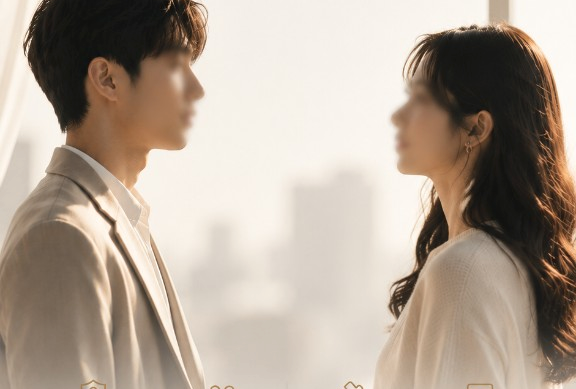
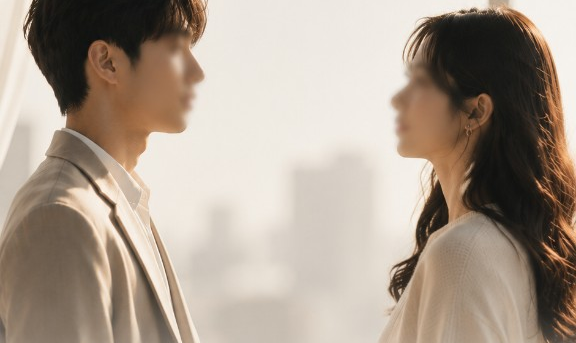
fix: Landing 人像露出完整頭部
重裁素材並放寬上方 mask、加高容器與 object-position，避免臉部被切掉。

diff --git a/src/screens/LandingScreen.tsx b/src/screens/LandingScreen.tsx
@@ -14,9 +14,9 @@ const GOLD_LIGHT = '#C4A574'
 const PAGE_BG = '#faf7f2'
 const LANDING_COUPLE_BG = '/assets/landing-couple-bg.png'
 
-/** 上下羽化，避免出現「貼圖小框」 */
+/** 上下羽化：頂部保留臉部，只柔化邊緣 */
 const PHOTO_MASK =
-  'linear-gradient(to bottom, transparent 0%, rgba(0,0,0,0.35) 8%, black 22%, black 78%, rgba(0,0,0,0.4) 92%, transparent 100%)'
+  'linear-gradient(to bottom, transparent 0%, black 6%, black 84%, transparent 100%)'
 
 const FEATURES = [
   {
@@ -101,7 +101,7 @@ export default function LandingScreen({ onStart, onOpenPaymentInfo, authNotice }
           initial={{ opacity: 0 }}
           animate={{ opacity: 1 }}
           transition={{ delay: 0.12, duration: 0.55 }}
-          className="relative z-10 -mx-5 -mt-3 h-[clamp(11.5rem,36vw,14.5rem)] shrink-0"
+          className="relative z-10 -mx-5 -mt-2 h-[clamp(13rem,40vw,16.5rem)] shrink-0"
           aria-hidden
         >
           <div
@@ -114,7 +114,7 @@ export default function LandingScreen({ onStart, onOpenPaymentInfo, authNotice }
             <img
               src={LANDING_COUPLE_BG}
               alt=""
-              className="h-full w-full scale-[1.08] object-cover object-center"
+              className="h-full w-full object-cover object-[center_38%]"
             />
           </div>
         </motion.div>
